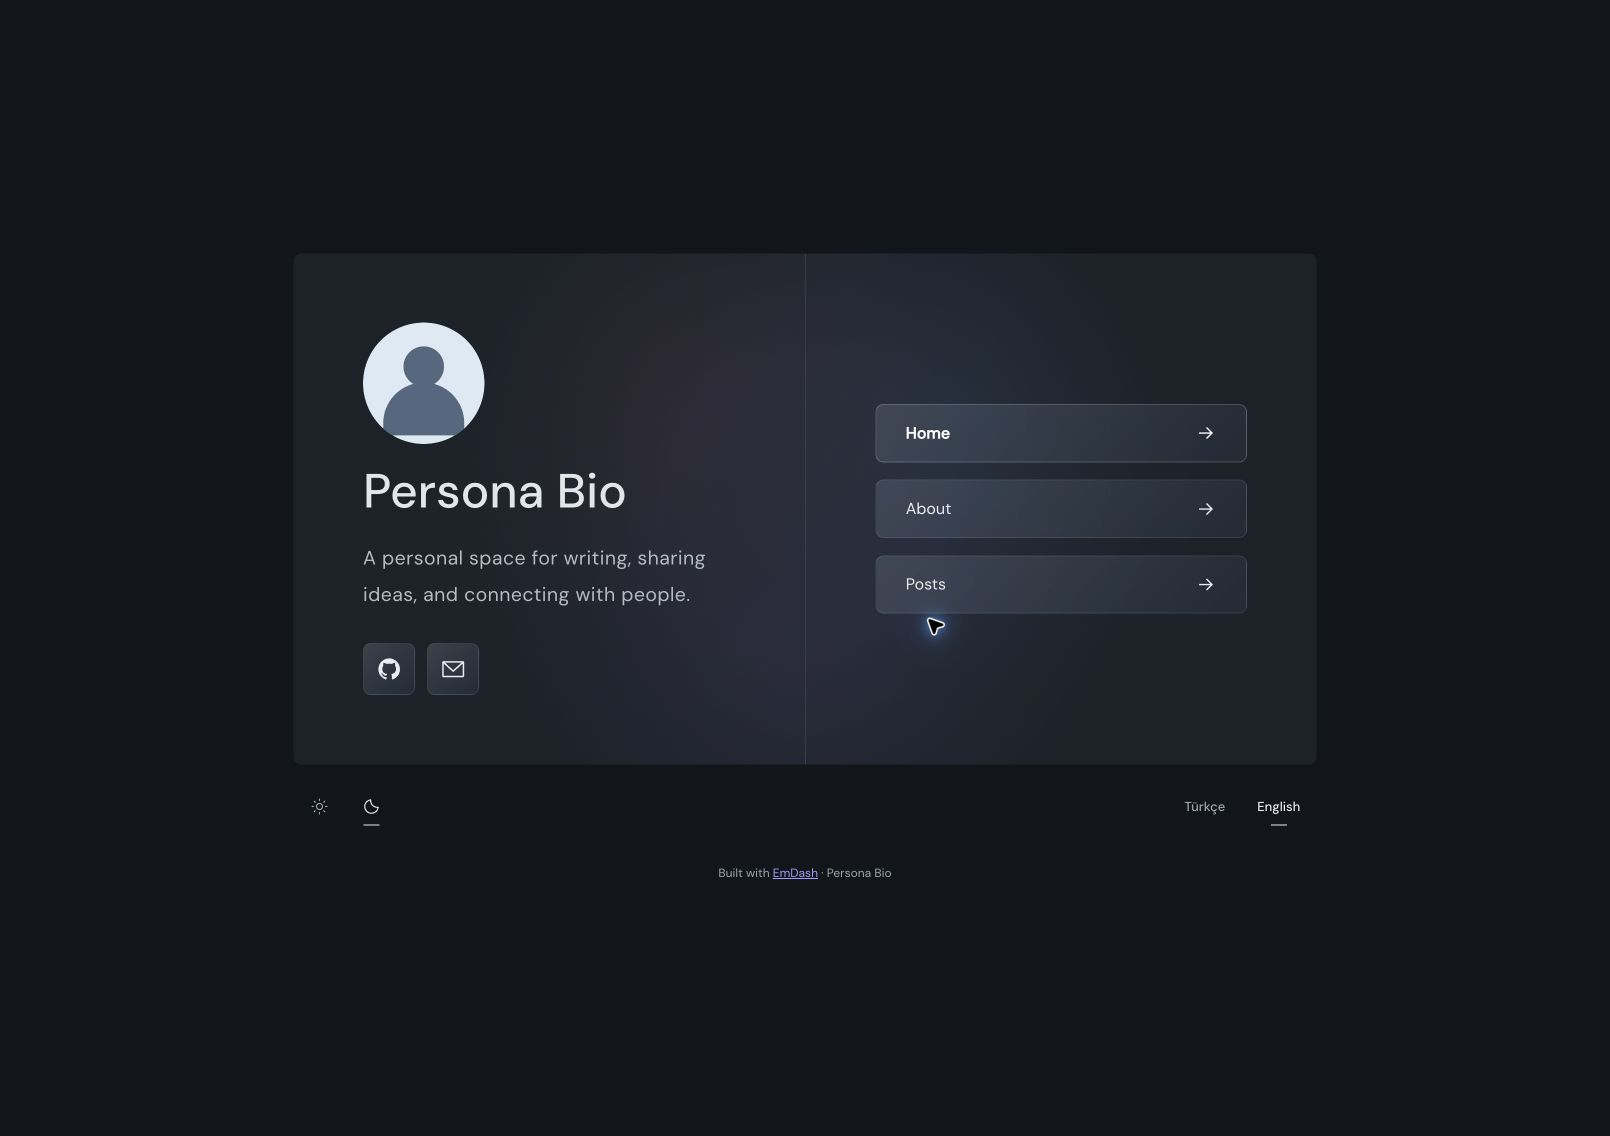
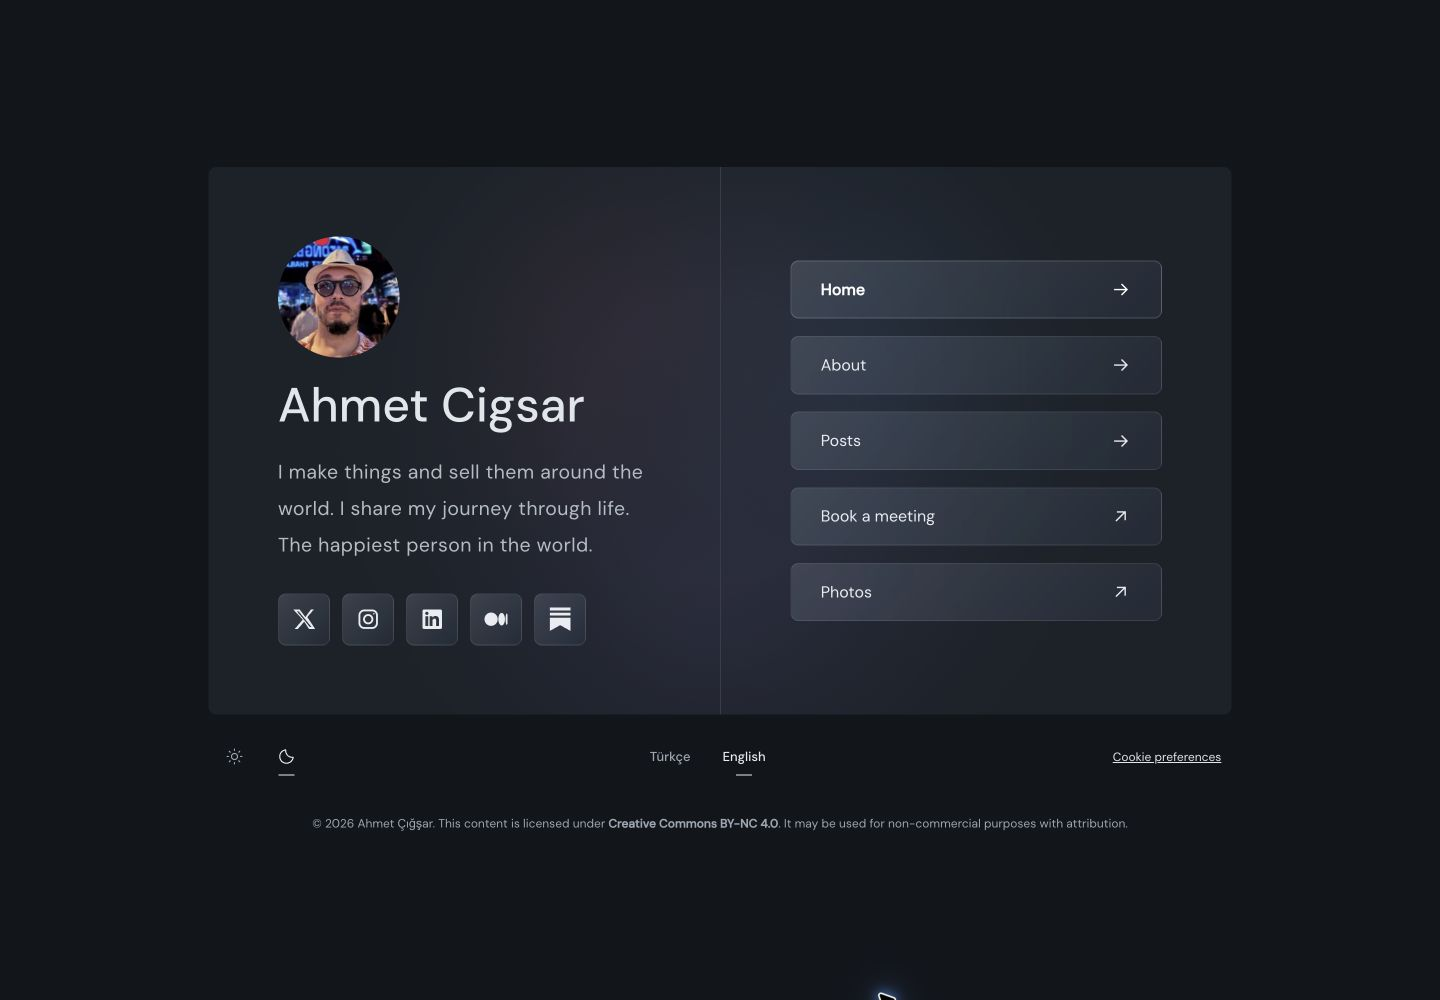
Show English live-site screenshots from ahmet.bio

diff --git a/src/themes/personabio/manifest.ts b/src/themes/personabio/manifest.ts
@@ -9,8 +9,13 @@ export function personabioTheme(origin: string) {
     keywords: ["bio", "personal", "minimal", "personabio", "local", "active"],
     previewUrl: `${origin}${PERSONABIO_PREVIEW_PATH}`, demoUrl: `${origin}/themes/personabio/demo`,
     hasThumbnail: true, thumbnailUrl: `${origin}/themes/personabio/preview.png`,
-    createdAt: "2026-09-19T00:00:00Z", updatedAt: "2026-09-19T00:00:00Z",
+    createdAt: "2026-09-19T00:00:00Z", updatedAt: "2026-09-21T00:00:00Z",
     repositoryUrl: "https://github.com/ahmetcigsar/emdash-theme-persona-bio", homepageUrl: `${origin}/`, license: "MIT",
-    screenshotCount: 1, screenshotUrls: [`${origin}/themes/personabio/preview.png`],
+    screenshotCount: 4, screenshotUrls: [
+      `${origin}/themes/personabio/preview.png`,
+      `${origin}/themes/personabio/home-mobile-en.png`,
+      `${origin}/themes/personabio/posts-desktop-en.png`,
+      `${origin}/themes/personabio/posts-mobile-en.png`,
+    ],
   };
 }

diff --git a/THIRD_PARTY_NOTICES.md b/THIRD_PARTY_NOTICES.md
@@ -1,3 +1,7 @@
 # Third-party notices
 
-This theme adapts the EmDash Astro blog template, copyright 2026 Cloudflare Inc., distributed under the MIT license reproduced in LICENSE. Dependencies retain their own licenses. Google Fonts are loaded through Astro; DM Sans, Inter, and JetBrains Mono retain their respective font licenses. The bundled SVG placeholders and sample text are included under this repository’s MIT license. No personal photographs or imported blog posts are bundled.
+This theme adapts the EmDash Astro blog template, copyright 2026 Cloudflare Inc., distributed under the MIT license reproduced in LICENSE. Dependencies retain their own licenses. Google Fonts are loaded through Astro; DM Sans, Inter, and JetBrains Mono retain their respective font licenses. The bundled SVG placeholders and sample text are included under this repository’s MIT license. The starter seed does not include personal photographs or imported blog posts.
+
+## Live-site screenshots
+
+The PNG screenshots in `public/themes/personabio/` show the English homepage and posts archive of https://ahmet.bio/en/, captured on September 21, 2026 and included at the site owner’s request to demonstrate the theme. The displayed site content, photographs, and third-party imagery retain their respective rights; inclusion as a screenshot does not relicense that content under MIT. The MIT license continues to cover the theme code, bundled sample text, and SVG placeholders.

diff --git a/README.md b/README.md
@@ -6,7 +6,25 @@ A responsive personal profile and blog theme for [EmDash CMS](https://emdashcms.
 
 [Download ZIP](https://github.com/ahmetcigsar/emdash-theme-persona-bio/archive/refs/heads/main.zip) · [Use this template](https://github.com/new?template_name=emdash-theme-persona-bio&template_owner=ahmetcigsar) · [Theme guide](docs/theme.md)
 
-![Persona Bio desktop preview](public/themes/personabio/preview.png)
+## Live screenshots
+
+English screenshots from [ahmet.bio](https://ahmet.bio/en/), a live site using Persona Bio. These show the site's own content and customization; the starter includes generic sample content.
+
+### Homepage — desktop
+
+![English homepage on ahmet.bio, desktop](public/themes/personabio/preview.png)
+
+### Posts — desktop
+
+![English posts page on ahmet.bio, desktop](public/themes/personabio/posts-desktop-en.png)
+
+### Mobile
+
+| Homepage | Posts |
+| --- | --- |
+| ![English homepage on ahmet.bio, mobile](public/themes/personabio/home-mobile-en.png) | ![English posts page on ahmet.bio, mobile](public/themes/personabio/posts-mobile-en.png) |
+
+Captured from the live English pages in dark mode. Screenshots are showcase material; the theme code remains MIT-licensed. See [third-party notices](THIRD_PARTY_NOTICES.md) for screenshot content attribution.
 
 ## Features
 
